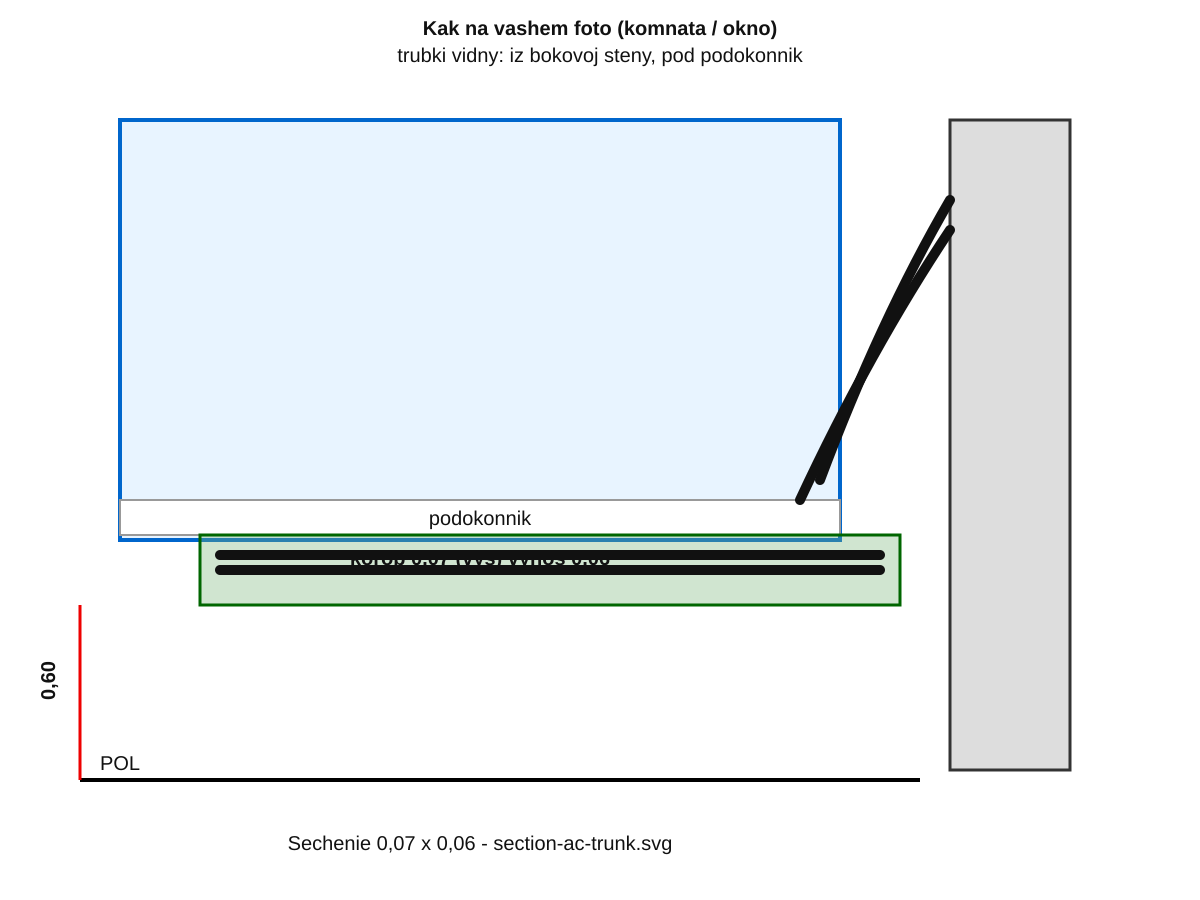
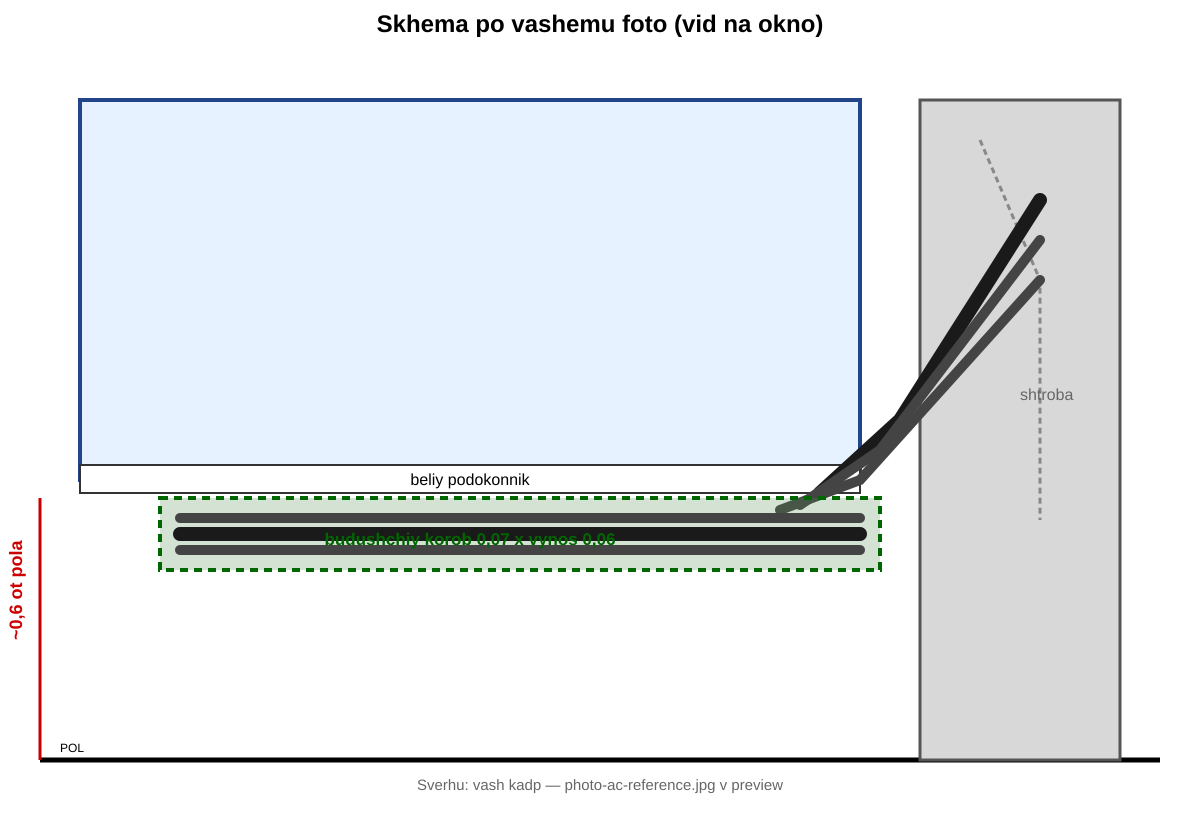
AC: match user photo with visible pipes, add reference photo to preview

Changed region(s): [[0.0, 0.122, 0.9558, 0.9756], [0.3083, 0.0, 0.6783, 0.0915]]

diff --git a/balcony-loggia/preview.html b/balcony-loggia/preview.html
@@ -6,27 +6,26 @@
   <title>Лоджия — чертежи</title>
   <style>
     body { font-family: system-ui,sans-serif; margin: 16px; background: #111; color: #eee; }
-    h1 { font-size: 1.2rem; }
-    h2 { font-size: 1rem; color: #9cf; margin-top: 1.2rem; }
+    h1,h2 { font-size: 1.1rem; }
+    h2 { color: #9cf; margin-top: 1.2rem; }
     img { width: 100%; background: #fff; border-radius: 8px; margin: 8px 0; }
     pre { background: #222; padding: 12px; border-radius: 8px; font-size: 14px; white-space: pre-wrap; }
+    .ref { border: 3px solid #f80; }
   </style>
 </head>
 <body>
-  <h1>Лоджия — чертежи</h1>
-  <pre>Все разрезы: POL vnizu, podokonniki ot pola vverh
-Vysota 2,47 | Naruzhu: podok. 0,89, penovoy shov 5 sm ot potolka
-V kvartiru: podok. 0,75 (blok)</pre>
+  <h1>Лоджия</h1>
+  <h2>Ваше фото (трубы)</h2>
+  <img class="ref" src="photo-ac-reference.jpg" alt="Фото труб у окна">
+  <h2>Схема по этому фото</h2>
+  <img src="elevation-ac-as-built.png" alt="Схема труб">
   <h2>Стена квартиры</h2>
-  <img src="elevation-apartment-6800.png" alt="Развертка">
-  <h2>План</h2>
-  <img src="plan-top.png" alt="План">
-  <h2>Окна наружу</h2>
-  <img src="elevation-front-windows.png" alt="Окна">
-  <h2>Короб кондиционера</h2>
-  <img src="elevation-ac-as-built.png" alt="Как на вашем фото">
-  <img src="plan-top.png" alt="План трассы">
-  <img src="elevation-ac-trunk-front.png" alt="Лоджия, стена 6 м">
-  <img src="section-ac-trunk.png" alt="Сечение короба">
+  <img src="elevation-apartment-6800.png" alt="">
+  <h2>Окна 6 м</h2>
+  <img src="elevation-front-windows.png" alt="">
+  <h2>План + трасса на лоджии</h2>
+  <img src="plan-top.png" alt="">
+  <h2>Сечение короба 0,07 x 0,06</h2>
+  <img src="section-ac-trunk.png" alt="">
 </body>
 </html>
